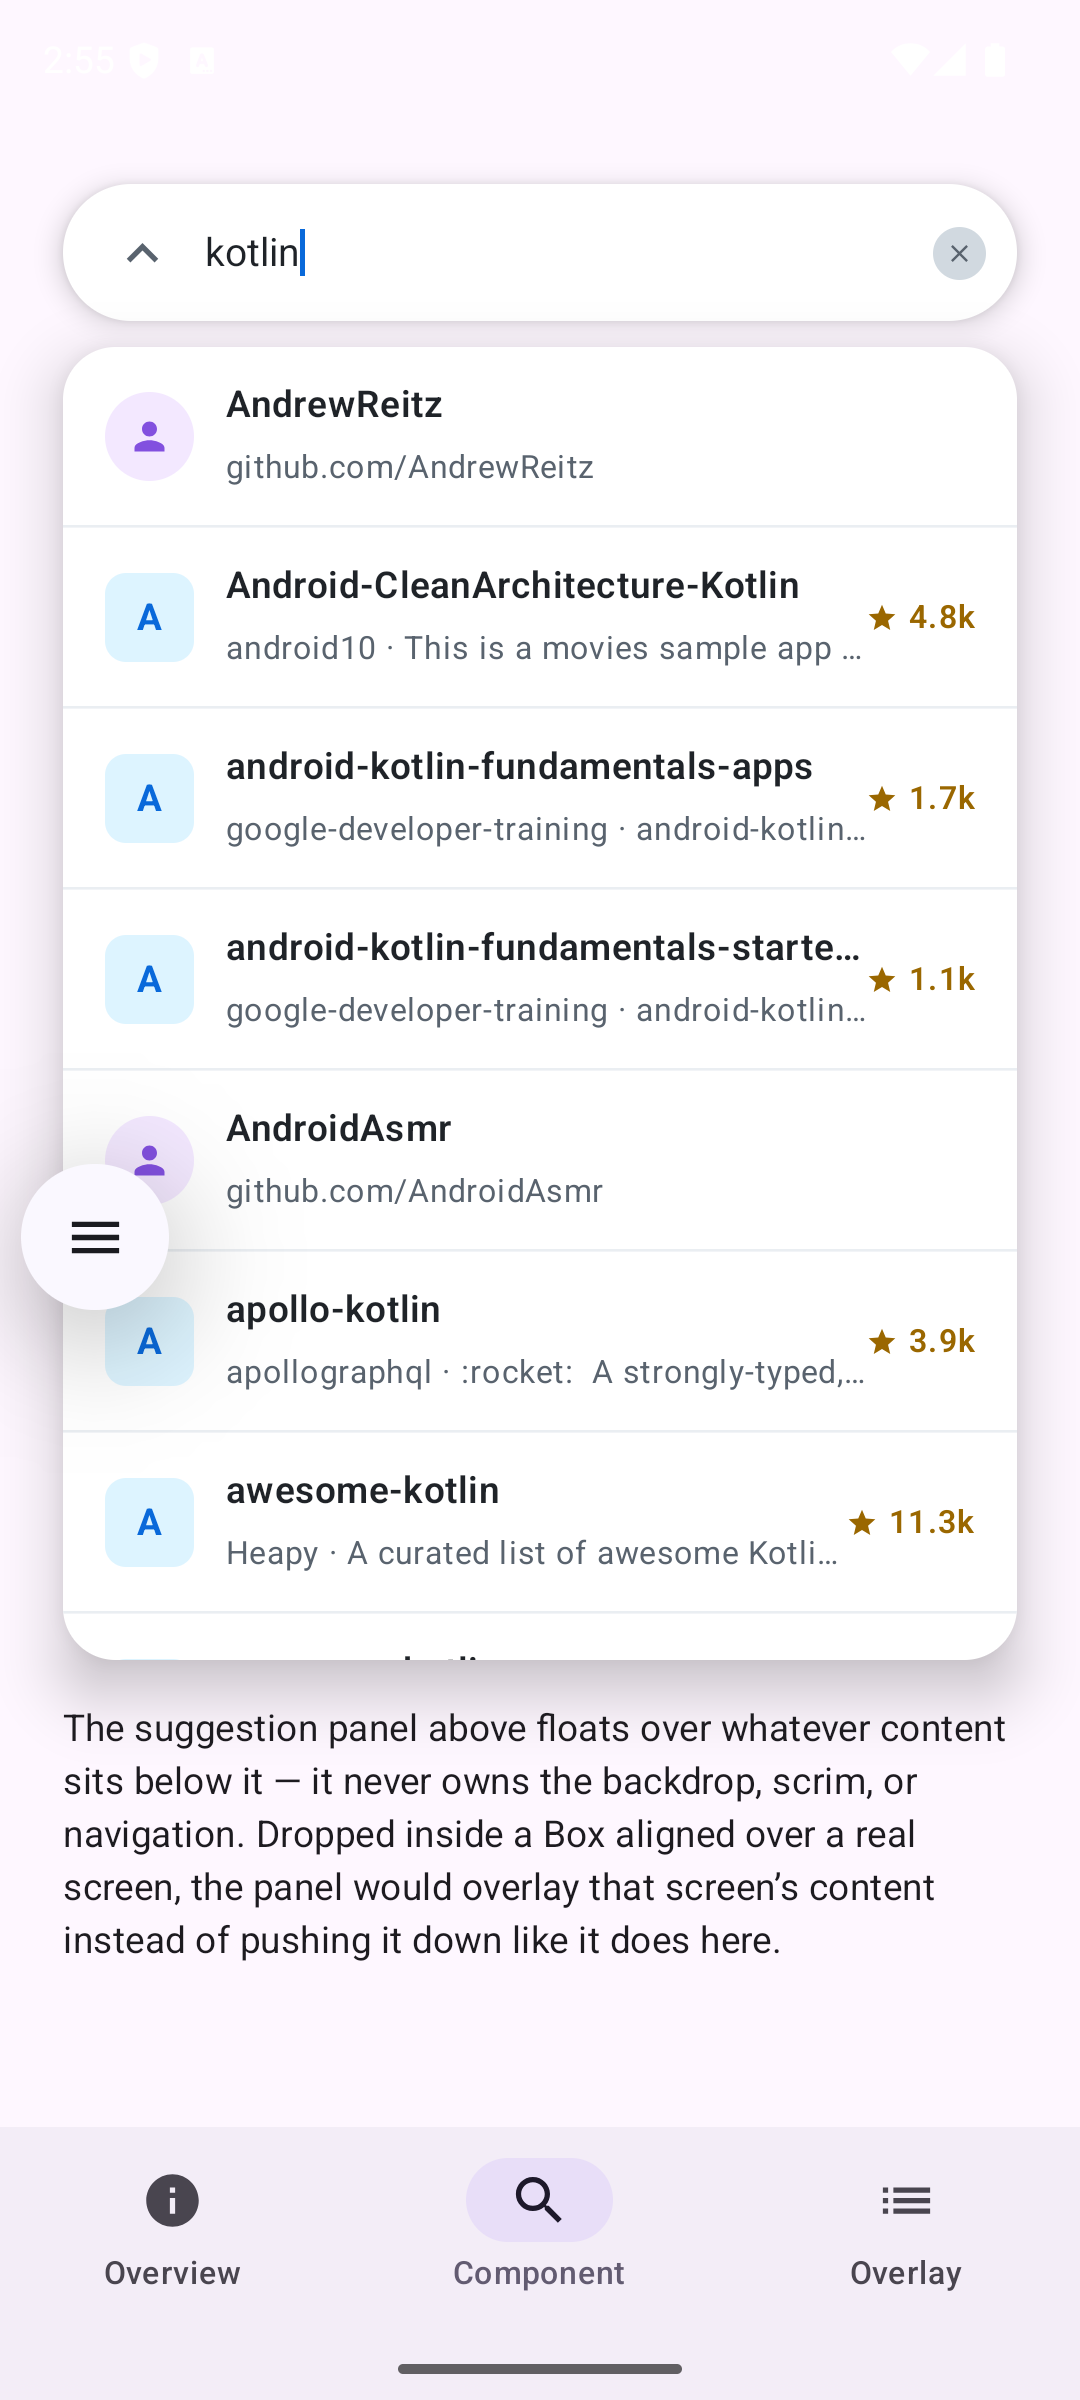
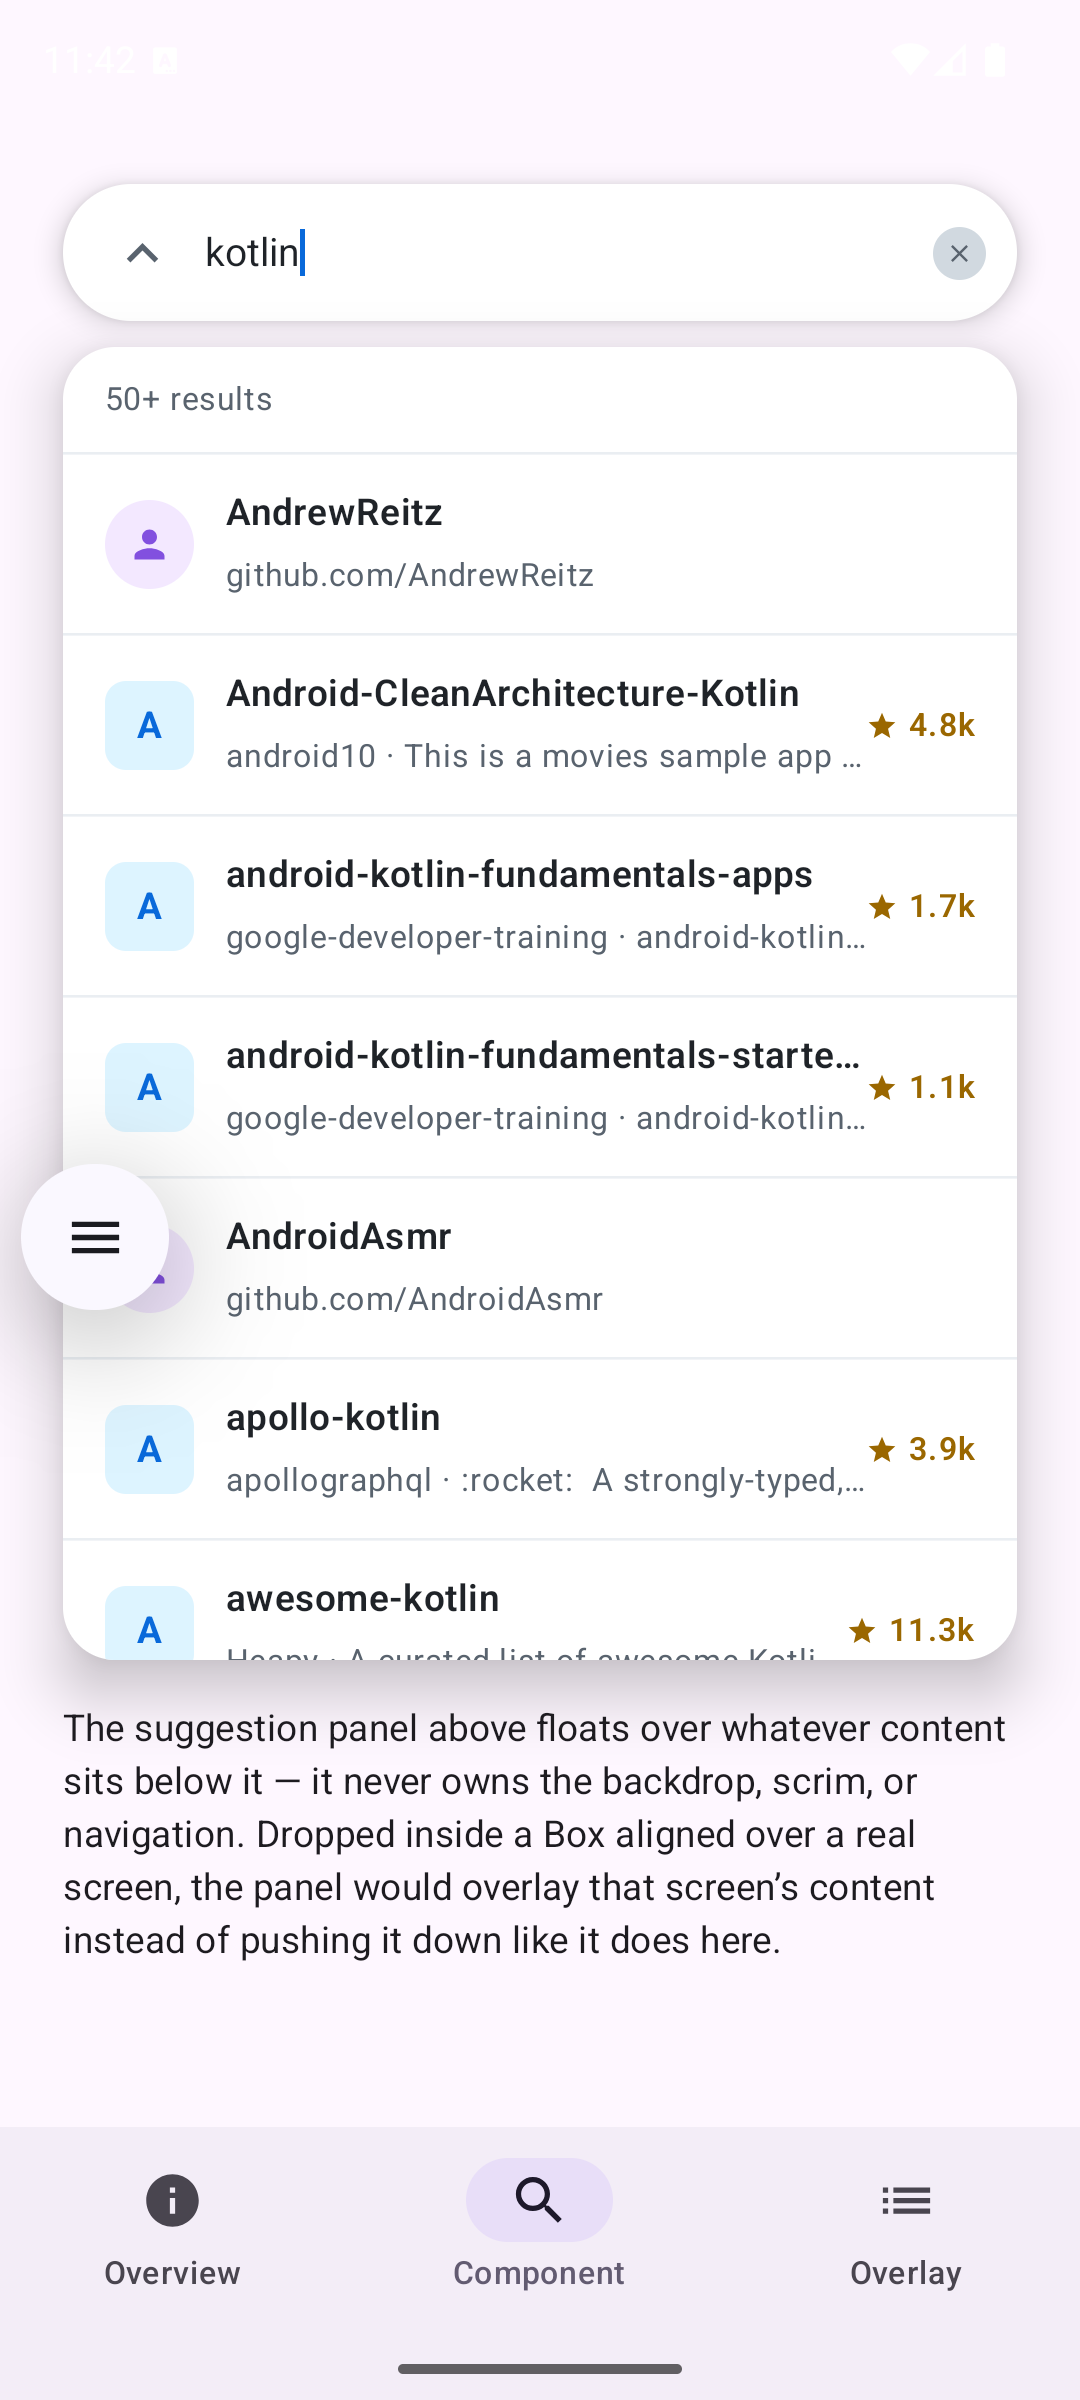
[DOCS] Update README for result-count header and harness
- Test counts and descriptions include the new header tests
- Note the 50+ header behavior and link docs/ai and .claude/ setup
- Re-capture Component and Overlay screenshots with the header

diff --git a/README.md b/README.md
@@ -60,7 +60,7 @@ typing in one tab never leaks into the other.
 | Minimum 3 characters before searching | `SearchAutocompleteUseCase`'s `MIN_QUERY_LENGTH` gate, applied to the trimmed query |
 | Fetches both users and repositories | `GitHubSearchNetworkSourceImpl`, launched in parallel via `async` |
 | Combined, alphabetically-sorted list | `ResultMerger.mergeAndSort`, keyed on repository name / login |
-| Capped at 50 results | `SearchLimits.MAX_RESULTS` — single source of truth for both the per-type fetch limit and the final cap |
+| Capped at 50 results | `SearchLimits.MAX_RESULTS` — single source of truth for both the per-type fetch limit and the final cap (the panel's "50+ results" header mirrors it as `DEFAULT_MAX_RESULTS` in `:app`) |
 | Loading / empty / error states | `AutocompleteUiState`, rendered by `SuggestionPanel` |
 | Rapid-input handling | `debounce` + `distinctUntilChanged` + `flatMapLatest` in the use case |
 | Reusable, not hardcoded to one screen | `GitHubAutocompleteBarComponent` — plain composable API, demoed over three different screens |
@@ -195,7 +195,7 @@ details.
 
 ## Testing
 
-50 JVM/multiplatform tests + 22 instrumented tests across 13 files.
+58 JVM/multiplatform tests + 24 instrumented tests across 15 files.
 Most of the logic is tested once in `:shared`'s `commonTest`, which
 runs on both the Android host JVM and the iOS simulator:
 
@@ -215,11 +215,13 @@ runs on both the Android host JVM and the iOS simulator:
   JSON payloads through the actual `kotlinx.serialization` pipeline,
   not just hand-built DTOs, so a wrong `@SerialName` would actually
   fail a test.
-- **`GitHubAutocompleteBarTest`** (20, instrumented) — every UI state,
-  focus handling, back-press, scroll-reset on a new query, and the
-  divider/leading-icon edge cases, via real Compose UI interactions.
-- **`GitHubAutocompleteBarScreenshotTest`** (5) — [Paparazzi](https://github.com/cashapp/paparazzi)
-  golden-image tests, one per UI state. Unlike the assertion-based
+- **`GitHubAutocompleteBarTest`** (22, instrumented) — every UI state,
+  focus handling, back-press, scroll-reset on a new query, the
+  result-count header, and the divider/leading-icon edge cases, via
+  real Compose UI interactions.
+- **`GitHubAutocompleteBarScreenshotTest`** (7) — [Paparazzi](https://github.com/cashapp/paparazzi)
+  golden-image tests, one per UI state plus the singular and capped
+  ("50+") result-count header. Unlike the assertion-based
   tests above, which only check semantics (does this tag exist, does
   this text say X), each of these renders the composable to a bitmap
   and diffs it pixel-for-pixel against a checked-in reference image
@@ -234,7 +236,9 @@ runs on both the Android host JVM and the iOS simulator:
   the build on a mismatch.
 - Plus `GitHubSearchNetworkSourceImplTest`, `ResultMergerTest`,
   `ResultMappersTest`, `SearchResultItemTest`,
-  `AutocompleteViewModelTest`, and `ResourceUtilTest` (instrumented)
+  `AutocompleteViewModelTest`, `ResultCountTest`,
+  `FormatResultCountTest` (real plural strings via Paparazzi's
+  `Resources`, no device), and `ResourceUtilTest` (instrumented)
   covering the remaining domain/data/presentation logic.
 
 Run everything: `./gradlew check` (unit tests + lint + ktlint + Paparazzi)
@@ -296,6 +300,9 @@ search endpoints.
   relevance-ranked top 50, so for a query with more than 50 matches of
   one type, an alphabetically-earlier match that GitHub ranks lower
   never makes it into the list.
+- The result-count header shows "50+ results" whenever the list hits
+  the 50 cap, even if GitHub had exactly 50 matches; the true total
+  (`total_count`) isn't threaded through from `:shared`.
 - The iOS app re-implements the debounce/min-length policy in Swift
   rather than sharing it (see [iOS app](#ios-app)), so the two
   platforms' copies of that policy have to be kept in sync by hand.
@@ -312,6 +319,10 @@ search endpoints.
   tools.
 - `docs/backlog.md` — known bugs and considerations, open and
   resolved.
+- `docs/ai/` — the Claude Code harness: concepts
+  (`claude-code-harness.md`), the setup and per-feature runbook
+  (`getting-started.md`), and the result-count header built as its
+  first test feature (`harness-test-feature.md`).
 
 ## Development notes
 
@@ -319,7 +330,11 @@ This project was built with the help of AI coding assistants —
 primarily [Claude Code](https://claude.com/claude-code), with
 [OpenCode](https://opencode.ai) also used for part of the work —
 alongside manual review, on-device testing, and the architectural
-decisions described above.
+decisions described above. The Claude Code setup is committed in
+`.claude/`: permission rules, hooks (ktlint on edit, a compile check
+before finishing, blocks on Co-Authored-By trailers and remote branch
+deletion), the `new-feature` and `run-android` skills, and a
+`compose-reviewer` subagent — see `docs/ai/getting-started.md`.
 
 ## License
 
